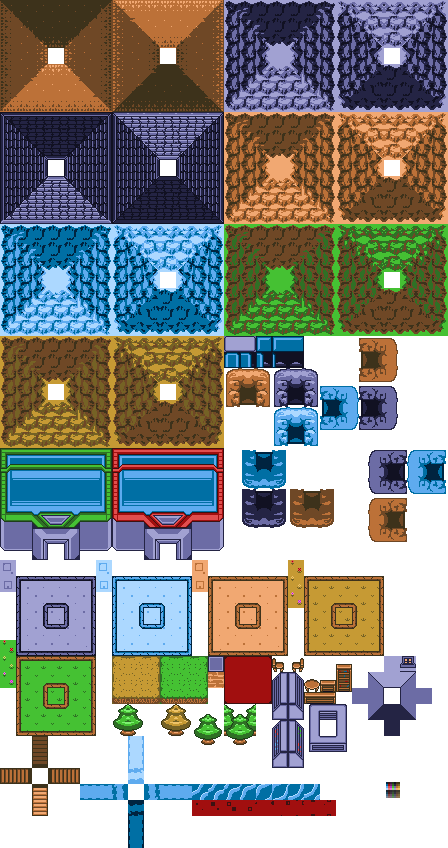
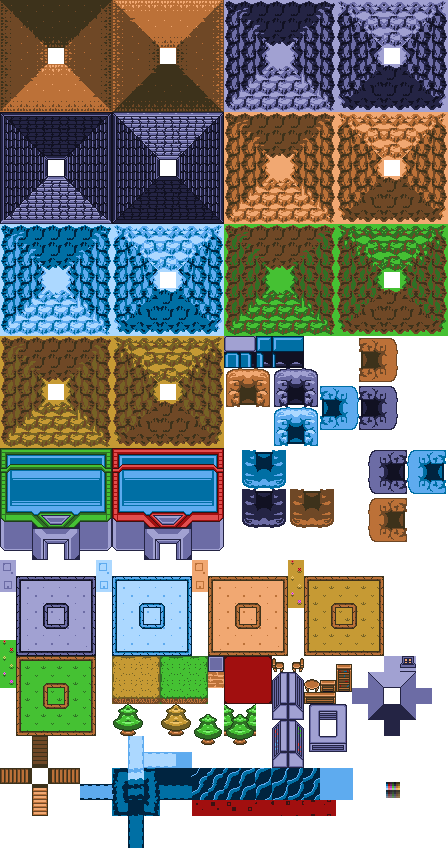
Added animated water and lava tiles.

Changed region(s): [[0.1875, 0.8892, 0.8125, 0.9811]]

diff --git a/assets/Terrain.tsx b/assets/Terrain.tsx
@@ -6,6 +6,31 @@
  <tile id="1148" probability="4"/>
  <tile id="1176" probability="4"/>
  <tile id="1207" probability="10"/>
+ <tile id="1384">
+  <animation>
+   <frame tileid="1384" duration="200"/>
+   <frame tileid="1385" duration="200"/>
+   <frame tileid="1386" duration="200"/>
+   <frame tileid="1387" duration="200"/>
+   <frame tileid="1388" duration="200"/>
+   <frame tileid="1389" duration="200"/>
+   <frame tileid="1390" duration="200"/>
+   <frame tileid="1391" duration="200"/>
+  </animation>
+ </tile>
+ <tile id="1412">
+  <animation>
+   <frame tileid="1412" duration="200"/>
+   <frame tileid="1413" duration="200"/>
+   <frame tileid="1414" duration="200"/>
+   <frame tileid="1415" duration="200"/>
+   <frame tileid="1416" duration="200"/>
+   <frame tileid="1417" duration="200"/>
+   <frame tileid="1418" duration="200"/>
+   <frame tileid="1419" duration="200"/>
+   <frame tileid="1420" duration="200"/>
+  </animation>
+ </tile>
  <wangsets>
   <wangset name="Sand" type="corner" tile="-1">
    <wangcolor name="Desert" color="#ff0000" tile="-1" probability="1"/>

diff --git a/src/HamsterGame.cpp b/src/HamsterGame.cpp
@@ -8,6 +8,7 @@ std::unordered_map<std::string,Animate2D::Animation<HamsterGame::AnimationState>
 std::unordered_map<std::string,Renderable>HamsterGame::GFX;
 const std::string HamsterGame::ASSETS_DIR{"assets/"};
 PixelGameEngine*HamsterGame::self{nullptr};
+std::unordered_map<uint32_t,Animate2D::FrameSequence>HamsterGame::ANIMATED_TILE_IDS;
 
 HamsterGame::HamsterGame(){
 	sAppName = "Project Hamster";
@@ -56,6 +57,14 @@ void HamsterGame::LoadAnimations(){
 	};
 
 	LoadAnimation(DEFAULT,"hamster.png",{{0,32},{32,32}},0.3f);
+	Animate2D::FrameSequence&waterAnimFrames{(*ANIMATED_TILE_IDS.insert({1384,Animate2D::FrameSequence{0.2f}}).first).second};
+	for(vf2d&sourcePos:std::vector<vf2d>{{192+16*0,784},{192+16*1,784},{192+16*2,784},{192+16*3,784},{192+16*4,784},{192+16*5,784},{192+16*6,784},{192+16*7,784}}){
+		waterAnimFrames.AddFrame(Animate2D::Frame{&GetGFX("gametiles.png"),{sourcePos,{16,16}}});
+	}
+	Animate2D::FrameSequence&lavaAnimFrames{(*ANIMATED_TILE_IDS.insert({1412,Animate2D::FrameSequence{0.2f}}).first).second};
+	for(vf2d&sourcePos:std::vector<vf2d>{{192+16*0,800},{192+16*1,800},{192+16*2,800},{192+16*3,800},{192+16*4,800},{192+16*5,800},{192+16*6,800},{192+16*7,800},{192+16*8,800}}){
+		lavaAnimFrames.AddFrame(Animate2D::Frame{&GetGFX("gametiles.png"),{sourcePos,{16,16}}});
+	}
 }
 
 void HamsterGame::LoadLevel(const std::string_view mapName){
@@ -93,12 +102,19 @@ void HamsterGame::DrawLevelTiles(){
 
 			int imgTileX{tileID%numTilesWide};
 			int imgTileY{tileID/numTilesWide};
-			tv.DrawPartialDecal(vf2d{float(tileX),float(tileY)}*16,GetGFX("gametiles.png").Decal(),vf2d{float(imgTileX),float(imgTileY)}*16,{16,16});
+			if(ANIMATED_TILE_IDS.count(tileID)){
+				Animate2D::FrameSequence&animatedTile{ANIMATED_TILE_IDS[tileID]};
+				const Animate2D::Frame&currentFrame{animatedTile.GetFrame(runTime)};
+				tv.DrawPartialDecal(vf2d{float(tileX),float(tileY)}*16,currentFrame.GetSourceImage()->Decal(),currentFrame.GetSourceRect().pos,currentFrame.GetSourceRect().size);
+			}else{
+				tv.DrawPartialDecal(vf2d{float(tileX),float(tileY)}*16,GetGFX("gametiles.png").Decal(),vf2d{float(imgTileX),float(imgTileY)}*16,{16,16});
+			}
 		}
 	}
 }
 
 bool HamsterGame::OnUserUpdate(float fElapsedTime){
+	runTime+=fElapsedTime;
 	UpdateGame(fElapsedTime);
 	DrawGame();
 	return true;
@@ -121,6 +137,10 @@ bool HamsterGame::OnUserDestroy(){
 
 PixelGameEngine&HamsterGame::Game(){
 	return *self;
+}
+
+const double HamsterGame::GetRuntime()const{
+	return runTime;
 }
 
 int main()

diff --git a/src/olcPixelGameEngine.h b/src/olcPixelGameEngine.h
@@ -2855,8 +2855,8 @@ namespace olc
 		di.decal = decal;
 		di.tint = { tint, tint, tint, tint };
 		di.pos = { { vQuantisedPos.x, vQuantisedPos.y }, { vQuantisedPos.x, vQuantisedDim.y }, { vQuantisedDim.x, vQuantisedDim.y }, { vQuantisedDim.x, vQuantisedPos.y } };
-		olc::vf2d uvtl = (source_pos + olc::vf2d(0.0001f, 0.0001f)) * decal->vUVScale;
-		olc::vf2d uvbr = (source_pos + source_size - olc::vf2d(0.0001f, 0.0001f)) * decal->vUVScale;
+		olc::vf2d uvtl = (source_pos + olc::vf2d(0.01f, 0.01f)) * decal->vUVScale;
+		olc::vf2d uvbr = uvtl + ((source_size - olc::vf2d(0.02f, 0.02f)) * decal->vUVScale);
 		di.uv = { { uvtl.x, uvtl.y }, { uvtl.x, uvbr.y }, { uvbr.x, uvbr.y }, { uvbr.x, uvtl.y } };
 		di.w = { 1,1,1,1 };
 		di.mode = nDecalMode;
@@ -2883,8 +2883,8 @@ namespace olc
 		di.decal = decal;
 		di.tint = { tint, tint, tint, tint };
 		di.pos = { { vScreenSpacePos.x, vScreenSpacePos.y }, { vScreenSpacePos.x, vScreenSpaceDim.y }, { vScreenSpaceDim.x, vScreenSpaceDim.y }, { vScreenSpaceDim.x, vScreenSpacePos.y } };
-		olc::vf2d uvtl = (source_pos) * decal->vUVScale;
-		olc::vf2d uvbr = uvtl + ((source_size) * decal->vUVScale);
+		olc::vf2d uvtl = (source_pos + olc::vf2d(0.02f, 0.02f)) * decal->vUVScale;
+		olc::vf2d uvbr = (source_pos + source_size - olc::vf2d(0.03f, 0.03f)) * decal->vUVScale;
 		di.uv = { { uvtl.x, uvtl.y }, { uvtl.x, uvbr.y }, { uvbr.x, uvbr.y }, { uvbr.x, uvtl.y } };
 		di.w = { 1,1,1,1 };
 		di.mode = nDecalMode;

diff --git a/src/HamsterGame.h b/src/HamsterGame.h
@@ -49,7 +49,7 @@ class HamsterGame : public olc::PixelGameEngine
 	const static std::string ASSETS_DIR;
 public:
 	enum AnimationState{
-		DEFAULT
+		DEFAULT,
 	};
 
 	HamsterGame();
@@ -63,6 +63,8 @@ public:
 	static const Renderable&GetGFX(const std::string_view img);
 	static const Animate2D::Animation<HamsterGame::AnimationState>&GetAnimations(const std::string_view img);
 	static PixelGameEngine&Game();
+	static std::unordered_map<uint32_t,Animate2D::FrameSequence>ANIMATED_TILE_IDS;
+	const double GetRuntime()const;
 private:
 	void UpdateGame(const float fElapsedTime);
 	void DrawGame();
@@ -77,4 +79,5 @@ private:
 	Border border;
 	void DrawLevelTiles();
 	std::optional<TMXParser>currentMap;
+	double runTime{};
 };

diff --git a/src/olcUTIL_Animate2D.h b/src/olcUTIL_Animate2D.h
@@ -124,7 +124,7 @@ namespace olc::utils::Animate2D
 		}
 
 		// Returns a Frame Object for a given time into an animation
-		inline const Frame& GetFrame(const float fTime) const
+		inline const Frame& GetFrame(const double fTime) const
 		{
 			return m_vFrames[ConvertTimeToFrame(fTime)];
 		}
@@ -135,7 +135,7 @@ namespace olc::utils::Animate2D
 		float m_fFrameDuration = 0.1f;
 		float m_fFrameRate = 10.0f;
 
-		inline const size_t ConvertTimeToFrame(const float fTime) const
+		inline const size_t ConvertTimeToFrame(const double fTime) const
 		{
 			switch (m_nStyle)
 			{
